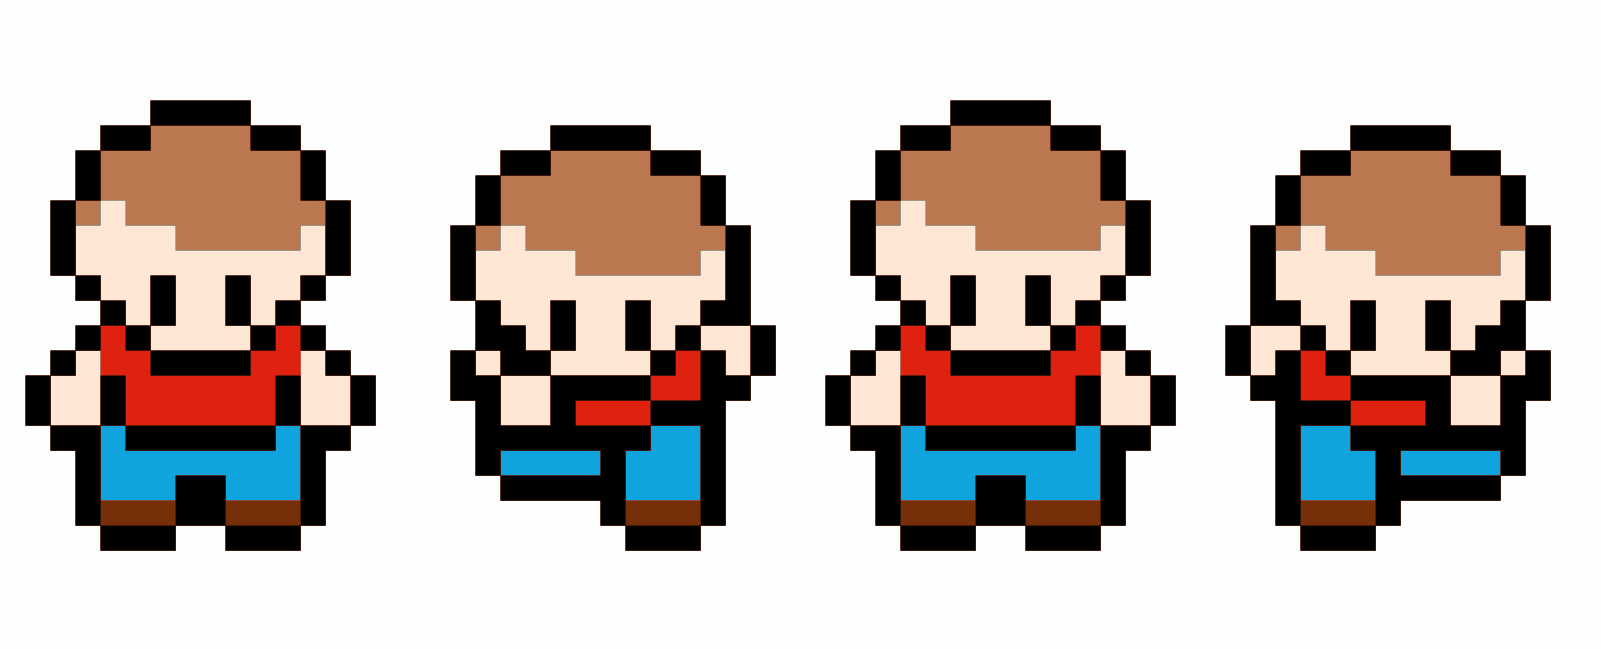
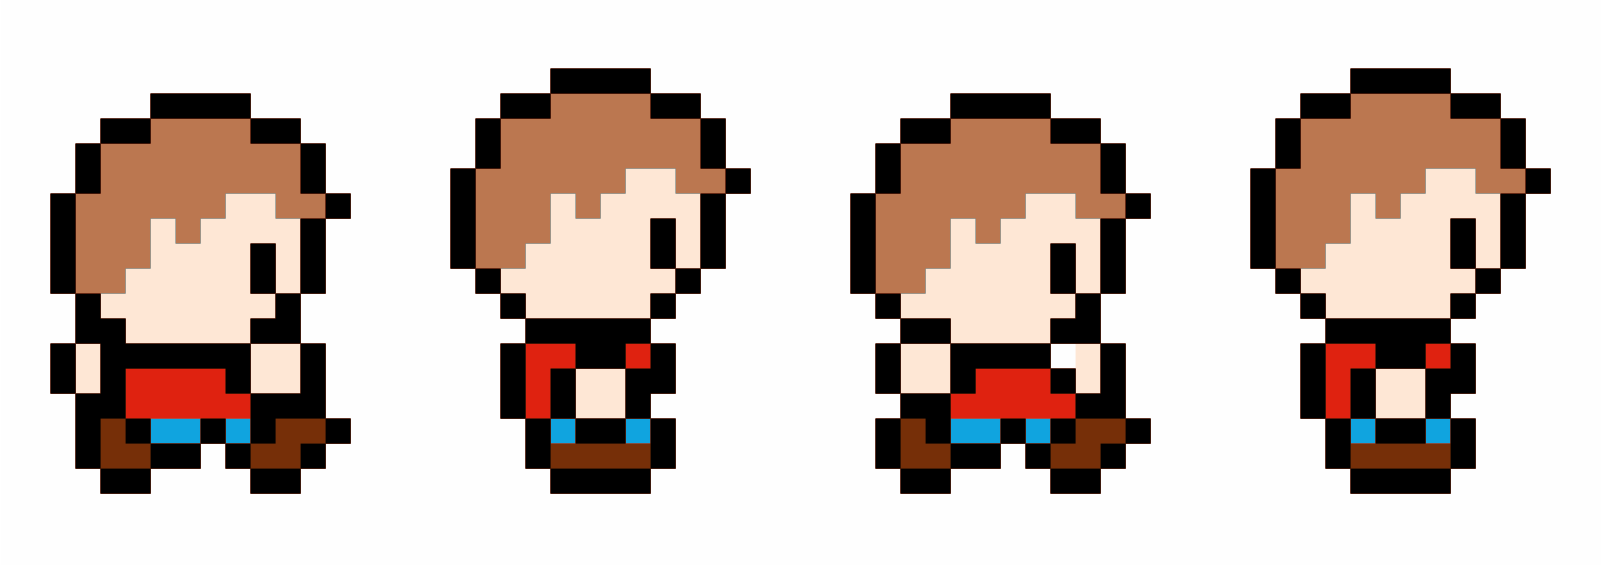
Animated character sprite sheet

diff --git a/animator.js b/animator.js
@@ -1,0 +1,28 @@
+class Animator {
+    constructor(spritesheet, xStart, yStart, width, height, frameCount, frameDuration) {
+        Object.assign(this, { spritesheet, xStart, yStart, width, height, frameCount, frameDuration});
+
+        this.elapsedTime = 0;
+        this.totalTime = frameCount * frameDuration;
+    };
+
+    drawFrame(tick, ctx, x, y) {
+        this.elapsedTime += tick;
+        if (this.elapsedTime > this.totalTime) this.elapsedTime -= this.totalTime;
+        const frame = this.currentFrame();
+
+        ctx.drawImage(this.spritesheet,
+            this.xStart + this.width*frame, this.yStart,
+            this.width, this.height,
+            x, y,
+            this.width, this.height);
+    };
+
+    currentFrame() {
+        return Math.floor(this.elapsedTime / this.frameDuration);
+    };
+
+    isDone() {
+        return (this.elapsedTime >= this.totalTime);
+    };
+}

diff --git a/character.js b/character.js
@@ -1,13 +1,19 @@
 class Character {
-    constructor() {
+    constructor(game) {
+        this.game = game;
+        this.animator = new Animator(ASSET_MANAGER.getAsset("./character.png"), 30, 0, 380, 648, 4, 0.2);
 
+        this.x = 0;
+        this.y = 0;
+        this.speed = 100;
     };
 
     update() {
-
+        this.x += this.speed*this.game.clockTick;
+        if (this.x > 1024) this.x = 0;
     };
 
     draw(ctx) {
-        ctx.drawImage(ASSET_MANAGER.getAsset("./character.png"),0,0);
+        this.animator.drawFrame(this.game.clockTick, ctx, this.x, this.y);
     };
 }

diff --git a/index.html b/index.html
@@ -9,6 +9,7 @@
     <script type="text/javascript" src="./timer.js"></script>
     <script type="text/javascript" src="./gameengine.js"></script>
     <script type="text/javascript" src="./util.js"></script>
+    <script type="text/javascript" src="./animator.js"></script>
     <script type="text/javascript" src="./character.js"></script>
     <script type="text/javascript" src="./main.js"></script>
 </head>

diff --git a/main.js b/main.js
@@ -8,7 +8,7 @@ ASSET_MANAGER.downloadAll(() => {
 	const canvas = document.getElementById("gameWorld");
 	const ctx = canvas.getContext("2d");
 
-	gameEngine.addEntity(new Character());
+	gameEngine.addEntity(new Character(gameEngine));
 
 	gameEngine.init(ctx);
 
